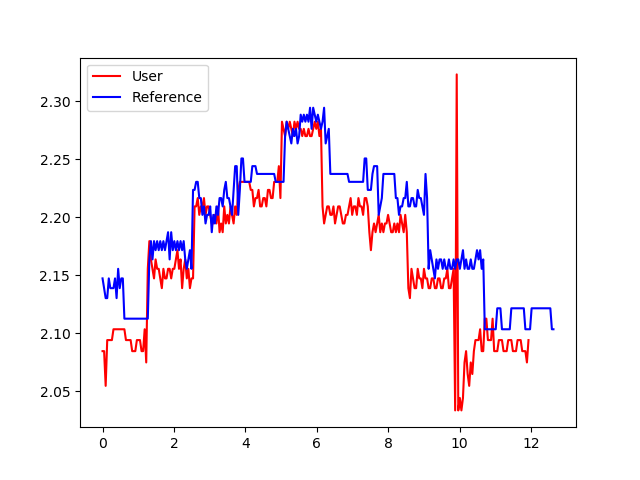
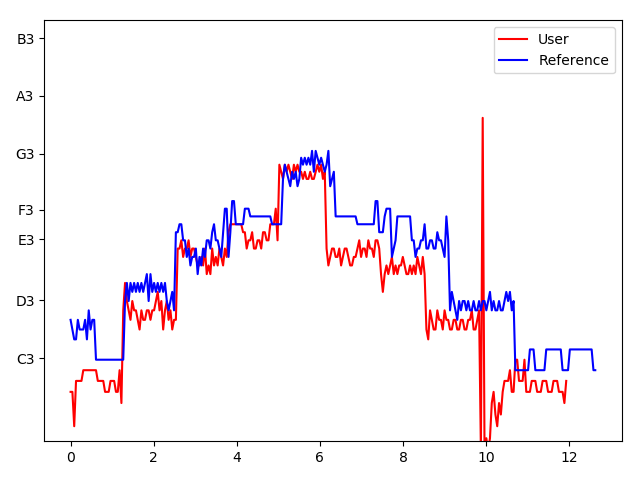
change compare label

diff --git a/GUIplayer/GUIplayer/GUIplayer.py b/GUIplayer/GUIplayer/GUIplayer.py
@@ -367,6 +367,16 @@ class MainWindow(QtGui.QMainWindow, Ui_MainWindow):
             self.similarityText.setText(similarityStr)
             ax.plot(t, UserList,'r',label='User')
             ax.plot(t2, RefList,'b',label = 'Reference')
+            xs = [130, 146, 165,175, 196, 220, 247, 261, 293, 329, 349, 391, 440, 493, 523, 587, 659, 698, 783, 880, 987]
+            ylabels = ['C3','D3','E3','F3','G3','A3','B3','C4','D4','E4','F4','G4','A4','B4','C5','D5','E5','F5','G5','A5','B5']
+
+            new_list = []
+            for y in xs:
+                new_list.append(log(y,10))
+
+            plt.yticks(new_list,ylabels)
+            plt.tight_layout()
+            plt.ylim(log(110,10),log(256,10))
             plt.xlabel('')
             plt.ylabel('')
             plt.title('')
